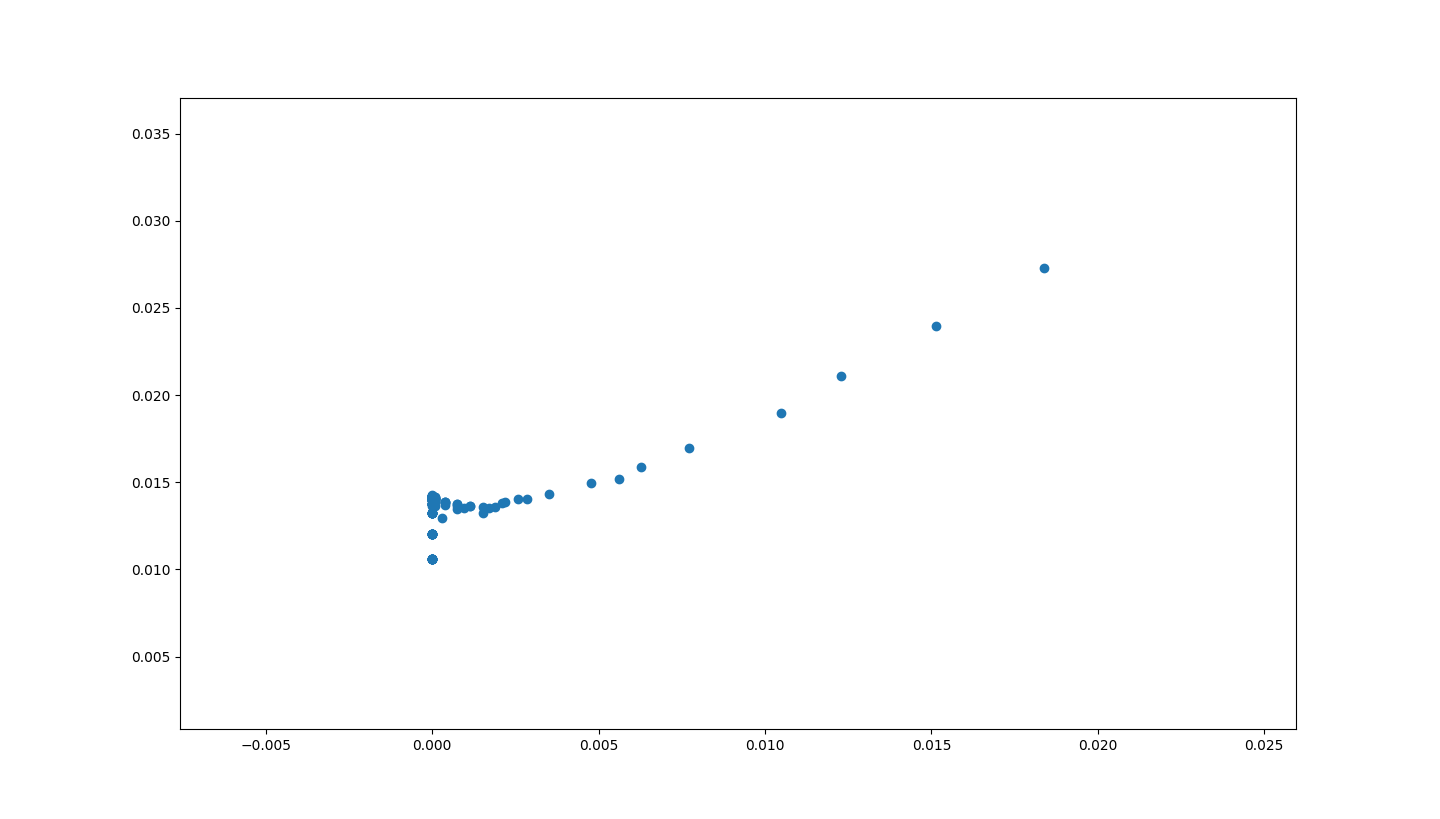
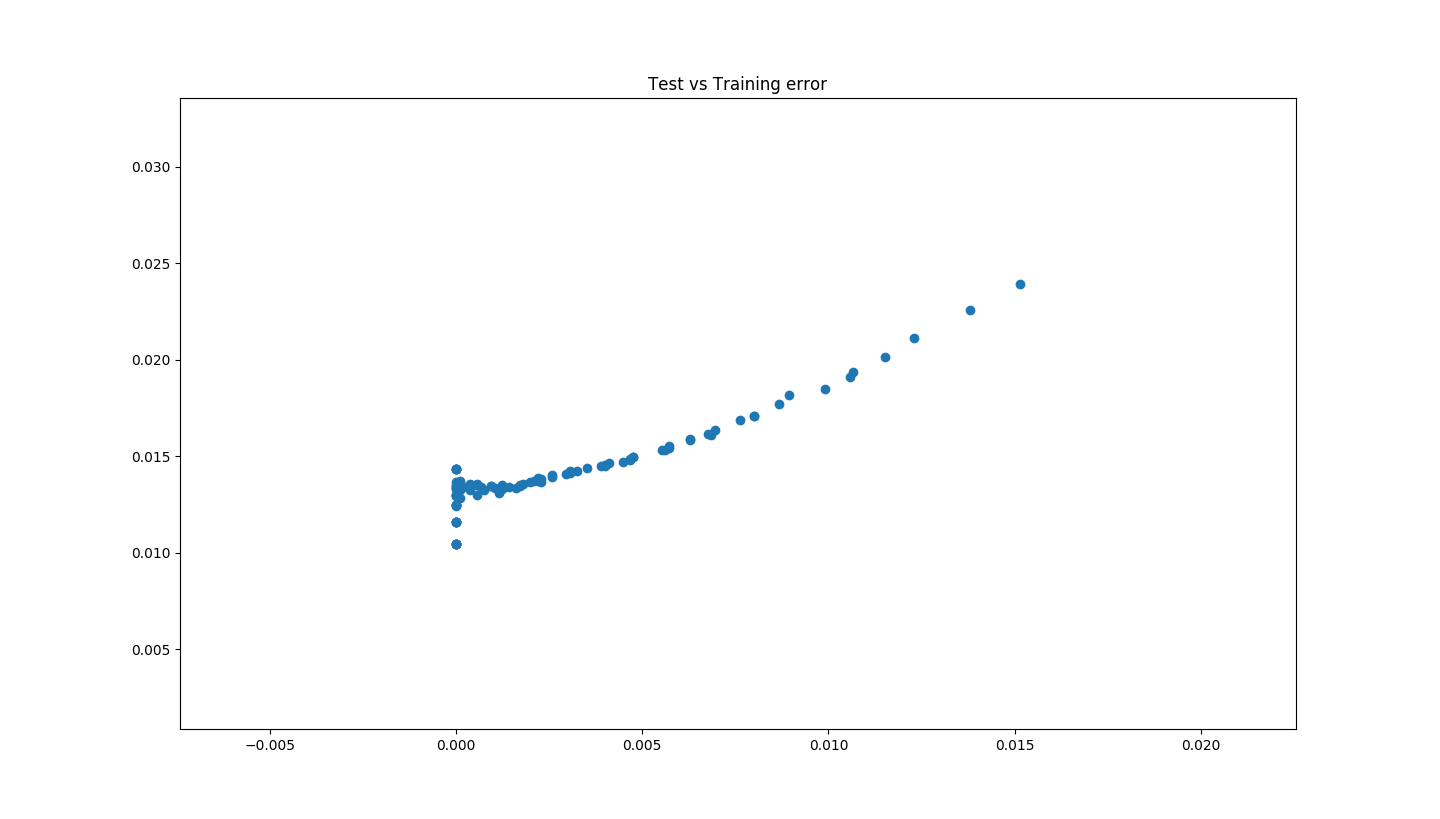
updated Documentation: - task 3: added new figures, added results, some discussion

diff --git a/exercise2/documentation/task3.tex b/exercise2/documentation/task3.tex
@@ -39,18 +39,11 @@ As we can see in figure \ref{fig:error_SVM_perc_boxplot} the SVM has a more stab
 \begin{center}
 \centering
 \includegraphics[width=1\textwidth]{figures/new/perc_vs_svm}
-\end{center}
-\caption{\label{fig:error_SVM_perc} Comparing the error rates of $\tau_k$ from SVM (blue) against Perceptron(red) }
-\end{figure}
-
-
-\begin{figure}[!h]
-\begin{center}
-\centering
 \includegraphics[width=1\textwidth]{figures/new/perc_vs_svm_boxplot}
 \end{center}
-\caption{\label{fig:error_SVM_perc_boxplot} Comparing the error rates of $\tau_k$ from SVM (1) against Perceptron(2) as a Boxplot }
+\caption{\label{fig:error_SVM_perc} Comparing the error rates of $\tau_k$ from SVM (blue/1 ) against Perceptron(red/2) }
 \end{figure}
+
 
 
 \subsection{Tuning meta-parameters $C$ and $\sigma$}
@@ -58,15 +51,22 @@ As we can see in figure \ref{fig:error_SVM_perc_boxplot} the SVM has a more stab
 This last section describes the effects of changing $C$ and $\sigma$ when using a RBF-kernel. In general $C$, a slack varibale, allows to not meet the margin requirement at a cost proportional to a value, which still allows us to minimize the error, but relaxes the stiffnes of linear separability.
 
 
-\textbf{TODO FABIAN: describe in more detail}
+To get a better understanding we took 135 sets from the MNIST training set with 35 images for training using varying values fo $C$ and $\sigma$ respectively and testing against the the MNIST Test data set with 10k images. $C$ is in the range ${5, 10, 15}$ $sigma$ is in ${4, 24, 50}$ and all of those combinations are used to train the SVM and calculate the average error for over the 135 training samples. 
+Figure \ref{fig:3_1} shows a scatter plot of the average training error versus the  test error, which let us to the conclusion that there is direct  relation between training and test error. High training errors will lead to high test errors.\\
 
 \begin{figure}[!h]
 \begin{center}
 \centering
 \includegraphics[width=1\textwidth]{figures/new/3_Figure_1}
 \end{center}
-\caption{\label{fig:3_1} }
+\caption{\label{fig:3_1}  Test error in relation to the Training error  }
 \end{figure}
+
+
+Another metric we captured during our test runs was the number of support vectors. Figure \ref{fig:3_2} puts this number in relation to the average test error.  Here we can see multiple insights. 
+
+First, most of the test runs yielded less than $40$ support vectors, with the number of such ranging from $25$ to $53$. The data points are more dense on the left side of the range.\\
+Secondly there is a visible correlation between the number of support vectors and the test error, when you ignore some outliers. However it seems that the sweet spot is located at 27 instead of 25, since there is a little drop in the observed error rate shortly after the beginning (at 25 ), which then rises again steadily to reach the maximum at location 53.
 
 
 \begin{figure}[!h]
@@ -74,24 +74,70 @@ This last section describes the effects of changing $C$ and $\sigma$ when using 
 \centering
 \includegraphics[width=1\textwidth]{figures/new/3_Figure_2}
 \end{center}
-\caption{\label{fig:3_2} }
+\caption{\label{fig:3_2} Number of support vectors in relation to the test error}
 \end{figure}
 
-\begin{figure}[!h]
-\begin{center}
-\centering
-\includegraphics[width=1\textwidth]{figures/new/3_Figure_3}
+
+\subsection{Finding the best $C$ and $\sigma$}
+
+Figure \ref{fig:3_3} and \ref{fig:3_4} show us the relation between varying values for $C$ and $\sigma$ and the average training and testing error. Both images hold the same information, but in different representation. We can see that low values for $C$ and high values $\sigma$  result in worse detection rates. 
+During our runs with $M$-fold cross validation we found the best suitable combination to be 
+\begin{align*}
+C= 25.454545454545453\\
+\sigma=8.181818181818182 \\
+\text{with an average error of } 0.013124320869287314
+\end{align*}
+These values align very well with the parameter space we during our experiments, see figure \ref{fig:3_4}. When comparing the results for our best performing RBF SVM against a linear SVM (see table \ref{tab:results}), we can see that our champion RBF SVM outperforms the linear SVM by 0.318 \% on average.
+
+\begin{table}[!h]
+ \begin{center}
+\begin{tabular}{|l|l|l|}
+ \hline
+ & \textbf{RBF SVM} & \textbf{linear SVM} \\
+ \hline
+  \textbf{$R_{whole Set}$} & 0.0020408163265306367       &     0.004081632653061273      \\
+ \hline
+  \hline
+ \textbf{$R_{avg}$} & 0.011227891156462583       &     0.014408163265306122      \\
+ \hline
+ \textbf{$R_{min}$} & 0.004081632653061273       &     0.0056122448979591955      \\
+ \hline
+  \textbf{$R_{max}$} & 0.03367346938775506       &     0.04081632653061229      \\
+ \hline
+ 
+\end{tabular}
+\caption{\label{tab:results} comparing RBF SVM with best parameters to linear SVM }
 \end{center}
-\caption{\label{fig:3_3} }
-\end{figure}
+\end{table}
+
+
 
 \begin{figure}[!h]
 \begin{center}
 \centering
 \includegraphics[width=1\textwidth]{figures/new/3_Figure_4}
+\includegraphics[width=1\textwidth]{figures/new/3_Figure_3}
 \end{center}
-\caption{\label{fig:3_4} }
+\caption{\label{fig:3_3} Impact of varying values of $C$ and $\sigma$ on training and test error  }
+\end{figure}
+
+\begin{figure}[!h]
+\begin{center}
+\centering
+\includegraphics[width=1\textwidth]{figures/new/3_Figure_6}
+\includegraphics[width=1\textwidth]{figures/new/3_Figure_5}
+\end{center}
+\caption{\label{fig:3_4}  parameter space of $C$ and $\sigma$  with resulting error  }
 \end{figure}
 
 
+
+%Best Parameters (c, sigma) = (25.454545454545453, 8.181818181818182) with cv_error = 0.013124320869287314
+%continuing...
+%RBF-SVM has error = 0.0020408163265306367
+%inear-SVM has avg = 0.004081632653061273
+%RBF-SVM has avg-error = 0.011227891156462583 min = 0.004081632653061273 max = 0.03367346938775506
+%linear-SVM has avg-error = 0.014408163265306122 min = 0.0056122448979591955 max = 0.04081632653061229
+
+%Process finished with exit code 0
 
